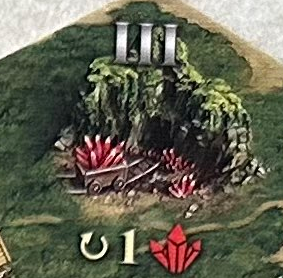
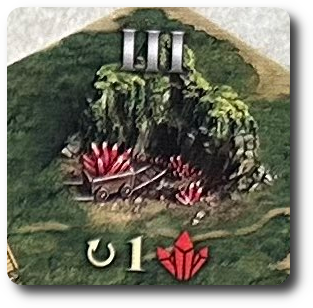
Make frame thinner

diff --git a/sections/all_map_locations.tex b/sections/all_map_locations.tex
@@ -20,7 +20,7 @@ Random Towns and War Machine Factories are explained above.
 \end{center}
 
 \begin{center}
-  \includegraphics[width=\linewidth]{\tables/symbols.png}
+  \framedimage[\linewidth]{\tables/symbols.png}
 \end{center}
 
 \clearpage
@@ -35,7 +35,7 @@ You also do not gain access to their Town board or Faction Units, unlike in the 
 You can \hyperlink{Town}{pay Gold} to defend Towns with your Units if you Hero is not there when it is attacked.
 
 \begin{center}
-  \shadowimage[\linewidth]{\images/core_towns.jpg}
+  \framedimage[\linewidth]{\images/core_towns.jpg}
   \textit{Towns from the core game.}
 \end{center}
 
@@ -45,7 +45,7 @@ You can \hyperlink{Town}{pay Gold} to defend Towns with your Units if you Hero i
 If you are the first one to Flag a mine, it also immediately provides you with its income.
 
 \begin{center}
-  \shadowimage[0.6\linewidth]{\images/mine_example.png}\\
+  \includegraphics[width=0.6\linewidth]{\images/mine_example.png}\\
   \textit{A mine that produces \includesvg[height=10px]{\svgs/valuablegreater.svg}, guarded by Level 3 neutrals.
     The first player to Flag this Field would immediately gain one \includesvg[height=10px]{\svgs/valuablegreater.svg} in addition to increasing their \includesvg[height=10px]{\svgs/valuablegreater.svg} income.
     All Mines are recognizable by the \includegraphics[height=0.8\baselineskip]{\images/revisitable.png} symbol.
@@ -67,13 +67,13 @@ Do not place any Resource Tokens on the Settlement if you choose to Reinforce.
 
 \begin{minipage}[h]{\linewidth}
   \centering
-  \shadowimage[0.44\linewidth]{\map_locations/castle_settlement.jpg}
-  \shadowimage[0.44\linewidth]{\map_locations/dungeon_settlement.jpg}
-  \shadowimage[0.44\linewidth]{\map_locations/necropolis_settlement.jpg}
-  \shadowimage[0.44\linewidth]{\map_locations/rampart_settlement.jpg}
-  \shadowimage[0.44\linewidth]{\map_locations/fortress_settlement.jpg}
-  \shadowimage[0.44\linewidth]{\map_locations/inferno_settlement.jpg}
-  \shadowimage[0.4\linewidth]{\map_locations/tower_settlement.jpg}
+  \includegraphics[width=0.44\linewidth]{\map_locations/castle_settlement.png}
+  \includegraphics[width=0.44\linewidth]{\map_locations/dungeon_settlement.png}
+  \includegraphics[width=0.44\linewidth]{\map_locations/necropolis_settlement.png}
+  \includegraphics[width=0.44\linewidth]{\map_locations/rampart_settlement.png}
+  \includegraphics[width=0.44\linewidth]{\map_locations/fortress_settlement.png}
+  \includegraphics[width=0.44\linewidth]{\map_locations/inferno_settlement.png}
+  \includegraphics[width=0.4\linewidth]{\map_locations/tower_settlement.png}
   \par
   \textit{All possible Settlements.
   Each is styled after a different Faction.
@@ -89,7 +89,7 @@ Do not place any Resource Tokens on the Settlement if you choose to Reinforce.
     \vspace{0pt}
     \centering
     \textbf{Library}\par
-    \shadowimage[\textwidth]{\map_locations/library.jpg}
+    \framedimage[\textwidth]{\map_locations/library.jpg}
     \caption{\small Category: \textbf{Revisitable}\\You may
       \includesvg[height=8px]{\svgs/pay_v2.svg}
       3 \includesvg[height=8px]{\svgs/gold.svg}
@@ -101,7 +101,7 @@ Do not place any Resource Tokens on the Settlement if you choose to Reinforce.
     \centering
     \captionsetup{singlelinecheck=off}
     \phantom{j}\textbf{Black Market}\par
-    \shadowimage[\textwidth]{\map_locations/black_market.jpg}
+    \framedimage[\textwidth]{\map_locations/black_market.jpg}
     \caption[black market]{\small Category: \textbf{Revisitable}\\Look at the top 4 cards from the Artifact Discard Pile.
       You may buy one of them for:
       \begin{itemize}
@@ -119,7 +119,7 @@ Do not place any Resource Tokens on the Settlement if you choose to Reinforce.
     \vspace{0pt}
     \centering
     \textbf{Sanctuary}\par
-    \shadowimage[\textwidth]{\map_locations/sanctuary.jpg}
+    \framedimage[\textwidth]{\map_locations/sanctuary.jpg}
     \caption{\small Category: \textbf{Revisitable}\\
       Heroes on this Field cannot be attacked by other Heroes.
       Friendly Heroes can move through enemy Heroes on this Field but cannot stop here.}
@@ -128,7 +128,7 @@ Do not place any Resource Tokens on the Settlement if you choose to Reinforce.
     \vspace{0pt}
     \centering
     \phantom{j}\textbf{Tavern}\par
-    \shadowimage[\textwidth]{\map_locations/tavern.jpg}
+    \framedimage[\textwidth]{\map_locations/tavern.jpg}
     \caption{\small Category: \textbf{Revisitable}\\
       You can \includesvg[height=8px]{\svgs/pay_v2.svg}
       7 \includesvg[height=8px]{\svgs/gold.svg}
@@ -143,7 +143,7 @@ Do not place any Resource Tokens on the Settlement if you choose to Reinforce.
     \vspace{0pt}
     \centering
     \hypertarget{Trading Post}{\textbf{Trading Post}}\par
-    \shadowimage[\textwidth]{\map_locations/trading_post.jpg}
+    \framedimage[\textwidth]{\map_locations/trading_post.jpg}
     \caption{\small Category: \textbf{Revisitable}\\
       Exchange resources or Remove a card.
       See \protect\hyperlink{Trading}{Trading}.}
@@ -152,7 +152,7 @@ Do not place any Resource Tokens on the Settlement if you choose to Reinforce.
     \vspace{0pt}
     \centering
     \phantom{j}\textbf{Stables}\par
-    \shadowimage[\textwidth]{\map_locations/stables.jpg}
+    \framedimage[\textwidth]{\map_locations/stables.jpg}
     \caption{\small Category: \textbf{Revisitable}\\
       Gain 1 MP \includesvg[height=8px]{\svgs/movement.svg}.
       It lasts for only one Turn.
@@ -169,7 +169,7 @@ The effects of these Fields are only indicated by a question mark on their tiles
     \vspace{0pt}
     \centering
     \textbf{Tree of Knowledge}\par
-    \shadowimage[\linewidth]{\map_locations/tree_of_knowledge.jpg}
+    \framedimage[\linewidth]{\map_locations/tree_of_knowledge.jpg}
     \caption{\small Category: \textbf{Visitable}\\You may
       \includesvg[height=8px]{\svgs/pay_v2.svg}
        3 \includesvg[height=8px]{\svgs/valuablegreater.svg} or
@@ -180,7 +180,7 @@ The effects of these Fields are only indicated by a question mark on their tiles
     \vspace{0pt}
     \centering
     \textbf{Redwood Observatory}\par
-    \shadowimage[\linewidth]{\map_locations/redwood_observatory.jpg}
+    \framedimage[\linewidth]{\map_locations/redwood_observatory.jpg}
     \caption{\small Category: \textbf{Visitable}\\Discover a Tile adjacent to this one.}
   \end{minipage}
 \end{figure}
@@ -190,7 +190,7 @@ The effects of these Fields are only indicated by a question mark on their tiles
     \vspace{0pt}
     \centering
     \phantom{j}\textbf{Grail}\par
-    \shadowimage[\linewidth]{\map_locations/grail.jpg}
+    \framedimage[\linewidth]{\map_locations/grail.jpg}
     \caption{\small Category: \textbf{Visitable}\\Gain a Grail Token.
     Only one Grail Token can exist in the game, do not gain another if this Field's Black Cube is removed or if there are multiple Grail Fields.
     The Token's effects are described in the Scenario's description.
@@ -200,7 +200,7 @@ The effects of these Fields are only indicated by a question mark on their tiles
     \vspace{0pt}
     \centering
     \textbf{Dragon Utopia}\par
-    \shadowimage[\linewidth]{\map_locations/dragon_utopia.jpg}
+    \framedimage[\linewidth]{\map_locations/dragon_utopia.jpg}
     \caption{\small Category: \textbf{Flaggable}\\Effects depend on the Scenario.}
   \end{minipage}
 \end{figure}
@@ -210,7 +210,7 @@ The effects of these Fields are only indicated by a question mark on their tiles
     \vspace{0pt}
     \centering
     \phantom{j}\textbf{Market of Time}\par
-    \shadowimage[\linewidth]{\map_locations/market_of_time.jpg}
+    \framedimage[\linewidth]{\map_locations/market_of_time.jpg}
     \caption{\small Category: \textbf{Visitable}\\ Remove one card from your hand.
 Then \textbf{Search (2)} the Ability, Spell, or Artifact Deck.}
   \end{minipage}\hfill
@@ -218,7 +218,7 @@ Then \textbf{Search (2)} the Ability, Spell, or Artifact Deck.}
     \vspace{0pt}
     \centering
     \textbf{University}\par
-    \shadowimage[\linewidth]{\map_locations/university.jpg}
+    \framedimage[\linewidth]{\map_locations/university.jpg}
     \caption{\small Category: \textbf{Visitable}\\
       \includesvg[height=8px]{\svgs/pay_v2.svg} 6 \includesvg[height=8px]{\svgs/gold.svg} to \textbf{Search (4)} the Ability Discard Pile.}
   \end{minipage}
@@ -229,7 +229,7 @@ Then \textbf{Search (2)} the Ability, Spell, or Artifact Deck.}
     \vspace{0pt}
     \centering
     \textbf{Magic Spring}\par
-    \shadowimage[\linewidth]{\map_locations/magic_spring.jpg}
+    \framedimage[\linewidth]{\map_locations/magic_spring.jpg}
     \caption{\small Category: \textbf{Visitable}\\
       You may look at the top 3 Cards of your Discard Pile and take 1 of them back to your hand.
       Return the remaining cards on top of your Discard Pile in any order.}
@@ -238,7 +238,7 @@ Then \textbf{Search (2)} the Ability, Spell, or Artifact Deck.}
     \vspace{0pt}
     \centering
     \phantom{j}\textbf{Witch Hut}\par
-    \shadowimage[\linewidth]{\map_locations/witch_hut.jpg}
+    \framedimage[\linewidth]{\map_locations/witch_hut.jpg}
     \caption{\small Category: \textbf{Visitable}\\
       \textbf{Choose one}: Remove an Ability card from your hand OR look at the top card of the Ability Deck and put that card into your hand or into the Ability Deck Discard Pile.}
   \end{minipage}
@@ -249,7 +249,7 @@ Then \textbf{Search (2)} the Ability, Spell, or Artifact Deck.}
     \vspace{0pt}
     \centering
     \phantom{j}\textbf{Obelisk}\par
-    \shadowimage[\linewidth]{\map_locations/obelisk.jpg}
+    \framedimage[\linewidth]{\map_locations/obelisk.jpg}
     \caption{\small Category: \textbf{Flaggable}\\
       The Obelisk's effects depend on the Scenario.
       When you Flag this Field, do not remove any enemy Faction Cubes; multiple players may have a Faction Cube on this Field.}
@@ -258,7 +258,7 @@ Then \textbf{Search (2)} the Ability, Spell, or Artifact Deck.}
     \vspace{0pt}
     \centering
     \phantom{j}\textbf{Star Axis}\par
-    \shadowimage[\linewidth]{\map_locations/star_axis.jpg}
+    \framedimage[\linewidth]{\map_locations/star_axis.jpg}
     \caption{\small Category: \textbf{Flaggable}\\
       You may Remove one of your Statistic cards from your hand and replace it with an \textbf{Empowered} one of the same type.
       When you Flag this Field, do not remove any enemy Faction Cubes; multiple players may have a Faction Cube on this Field.}
@@ -270,7 +270,7 @@ Then \textbf{Search (2)} the Ability, Spell, or Artifact Deck.}
     \vspace{0pt}
     \centering
     \phantom{j}\textbf{Hill Fort}\par
-    \shadowimage[\linewidth]{\map_locations/hill_fort.jpg}
+    \framedimage[\linewidth]{\map_locations/hill_fort.jpg}
     \caption{\small Category: \textbf{Visitable}\\
       You may immediately Reinforce one of your \includesvg[height=8px]{\svgs/bronze.svg} or \includesvg[height=8px]{\svgs/silver.svg} Units.
       The Reinforcement cost is reduced by 3 \includesvg[height=8px]{\svgs/gold.svg} to a minimum of 0.}
@@ -279,7 +279,7 @@ Then \textbf{Search (2)} the Ability, Spell, or Artifact Deck.}
     \vspace{0pt}
     \centering
     \phantom{j}\textbf{Prison}\par
-    \shadowimage[\linewidth]{\map_locations/prison.jpg}
+    \framedimage[\linewidth]{\map_locations/prison.jpg}
     \caption{\small Category: \textbf{Visitable}\\
       Gain a Secondary Hero.
       Place their model on this Field.
@@ -293,7 +293,7 @@ Then \textbf{Search (2)} the Ability, Spell, or Artifact Deck.}
     \captionsetup{singlelinecheck=off}
     \centering
     \phantom{j}\textbf{Scholar}\par
-    \shadowimage[\linewidth]{\map_locations/scholar.jpg}
+    \framedimage[\linewidth]{\map_locations/scholar.jpg}
     \caption[scholar they]{\small Category: \textbf{Visitable}\\
       Roll 1 Attack Die.
       Depending on the result, do the following:

diff --git a/main.tex b/main.tex
@@ -84,29 +84,15 @@
 \definecolor{arylideyellow}{rgb}{0.91, 0.84, 0.42}
 \definecolor{amber}{rgb}{1.0, 0.49, 0.0}
 
-% Drop shadow for images
-\def\shadowshift{3pt,-3pt}
-\def\shadowradius{6pt}
-
-\colorlet{innercolor}{black!60}
-\colorlet{outercolor}{gray!05}
-
-
-% create a shadow layer, so that we don't need to worry about overdrawing other things
-\pgfdeclarelayer{shadow}
-\pgfsetlayers{shadow,main}
-
-\newsavebox\mybox
-\newlength\mylen
-
-\newcommand\shadowimage[2][]{%
+% Command to frame images
+\newcommand\framedimage[2][]{%
   \begin{tikzpicture}
     \draw (0, 0) node[inner sep=0] {\makebox[#1][c]{\includegraphics[width=#1]{#2}}};
-    \draw [black, ultra thick] ([xshift=+2pt, yshift=-2pt] current bounding box.north west) rectangle ([xshift=-2pt, yshift=2pt] current bounding box.south east);
-    \draw [borderoutyellow, very thick] (current bounding box.north west) rectangle (current bounding box.south east);
-    \draw [borderinyellow, thick] ([xshift=+4.5pt, yshift=-4.5pt] current bounding box.north west) rectangle ([xshift=-4.5pt, yshift=4.5pt] current bounding box.south east);
+    \draw [black, thick] ([xshift=+1pt, yshift=-1pt] current bounding box.north west) rectangle ([xshift=-1pt, yshift=1pt] current bounding box.south east);
+    \draw [borderoutyellow, thick] (current bounding box.north west) rectangle (current bounding box.south east);
+    \draw [borderinyellow, thick] ([xshift=+3pt, yshift=-3pt] current bounding box.north west) rectangle ([xshift=-3pt, yshift=3pt] current bounding box.south east);
   \end{tikzpicture}}
-% End of drop shadow definition
+% End of drop frame definition
 
 \titleformat{\section}
 {\huge}

diff --git a/sections/expansion_content.tex b/sections/expansion_content.tex
@@ -58,7 +58,7 @@ War machines are also more expensive at the Trading Post.\par
   \begin{center}
     \textbf{War Machine Factory}\medskip
   \end{center}
-  \shadowimage[\linewidth]{\map_locations/war_machine_factory.jpg}
+  \framedimage[\linewidth]{\map_locations/war_machine_factory.jpg}
   \footnotesize{Category: \textbf{Revisitable}\\This location allows a Hero to buy a War Machine.}
 \end{minipage}
 
@@ -184,7 +184,7 @@ Flagging it increases \includesvg[height=10px]{\svgs/gold.svg} production by 10,
   \begin{center}
     \textbf{Random Town}\medskip
   \end{center}
-  \shadowimage[\linewidth]{\map_locations/random_town.jpg}
+  \framedimage[\linewidth]{\map_locations/random_town.jpg}
   \small{Category: \textbf{Flaggable}}
 \end{minipage}
 
